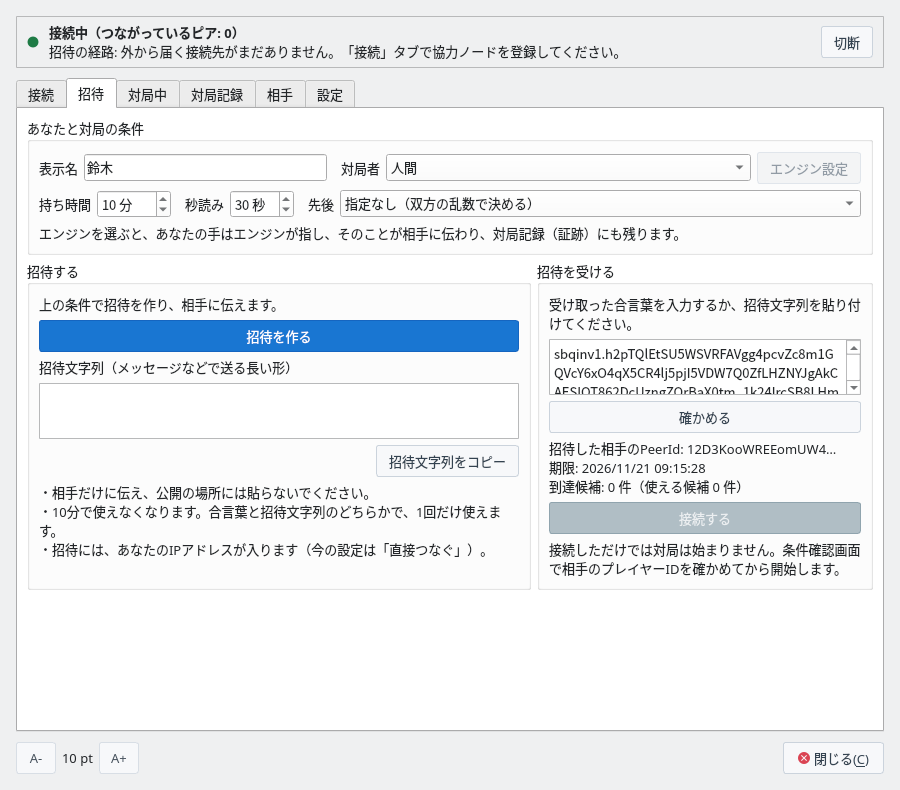
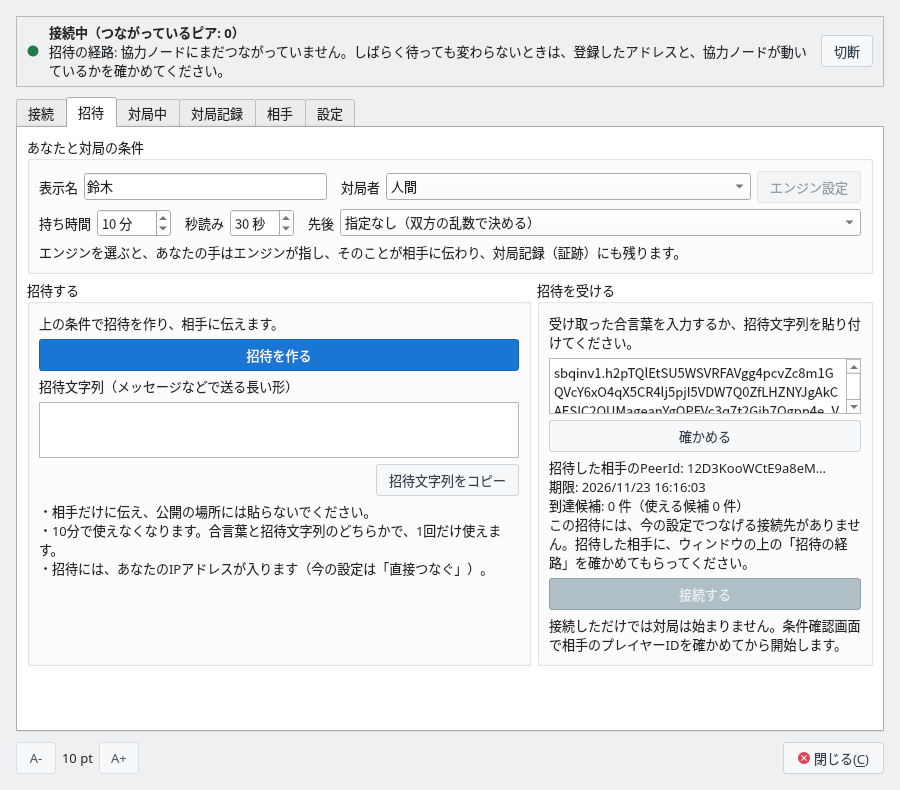
協力ノードを使うP2P対局のガイドを、「招待の経路」の新しい文に合わせる
協力ノードを登録したのにつながっていない・中継の予約がまだ取れていないときの
「招待の経路」の文が変わったので、p2p-relay.html（4言語）を直す。

- 「つながらないとき」の表: 「外から届く接続先がまだありません。…」は協力ノードを
  登録していないときの文にし、「協力ノードにまだつながっていません。…」と、「外から届く
  接続先を、協力ノードで確かめています。…」「協力ノードに中継を予約しています。…」の行を
  足す（--relay と --network を確かめる）。「中継を使えません。…」の説明と、続く行の
  「上の行」の参照も合わせる
- 「LANの中で試す」と、協力ノードを登録していないときの説明: 「インターネット」で
  LANの中のアドレスだけを登録したときの文を新しい文にする
- 画像 p2p-internet-lan-address.png（4言語）を撮り直す（上の帯に新しい文が写る）

Changed region(s): [[0.0311, 0.0304, 0.9644, 0.8506], [0.0311, 0.5468, 0.56, 0.7291]]

diff --git a/docs/guide/p2p-relay.html b/docs/guide/p2p-relay.html
@@ -314,7 +314,7 @@ $ journalctl -u sbq-coop-node    # PeerId を確かめる</code></pre></div>
                     <a href="../images/p2p-game/p2p-internet-connected.png"><img src="../images/p2p-game/p2p-internet-connected.png" alt="「インターネット」で接続し、上の帯の招待の経路に、協力ノードの中継を通ると出た「接続」タブ" width="900" height="790" loading="lazy"></a>
                     <p class="screenshot-caption">協力ノードにつながったところ</p>
                 </div>
-                <p class="guide-step-text">協力ノードを登録していない間は、「接続」タブの下に「このままでは、相手は接続できません」と出ます。そのまま接続しても、どこにもつながらず（「つながっているピア: 0」）、「招待の経路」に「外から届く接続先がまだありません。…」と出ます。この状態で招待文字列を作っても接続先が入らず、「この招待文字列には接続先が入っていないので、相手は接続できません。…」と出ます。登録したのがLANの中のアドレスだけのときも、接続すると同じ状態になります（<a href="#lan-test">LANの中で試す</a>）。</p>
+                <p class="guide-step-text">協力ノードを登録していない間は、「接続」タブの下に「このままでは、相手は接続できません」と出ます。そのまま接続しても、どこにもつながらず（「つながっているピア: 0」）、「招待の経路」に「外から届く接続先がまだありません。…」と出ます。この状態で招待文字列を作っても接続先が入らず、「この招待文字列には接続先が入っていないので、相手は接続できません。…」と出ます。登録したのがLANの中のアドレスだけのときも、接続するとどこにもつながらず、招待文字列に接続先が入りません。このとき「招待の経路」には「協力ノードにまだつながっていません。…」と出ます（<a href="#lan-test">LANの中で試す</a>）。</p>
                 <div class="screenshot-item screenshot-item--compact">
                     <a href="../images/p2p-game/p2p-internet-no-node.png"><img src="../images/p2p-game/p2p-internet-no-node.png" alt="「インターネット」を選び、協力ノードを登録していない「接続」タブ。このままでは相手は接続できないことと、直し方が出ている" width="900" height="790" loading="lazy"></a>
                     <p class="screenshot-caption">協力ノードを登録していないとき</p>
@@ -438,7 +438,7 @@ $ journalctl -u sbq-coop-node    # PeerId を確かめる</code></pre></div>
                 </div>
                 <p class="guide-step-text">「インターネット」では、アプリはインターネット上のアドレスにしかつなぎません。協力ノードを自分のPCや同じLANのPCで起動し、LANの中のアドレス（<code>/ip4/192.168.10.16/tcp/4001/p2p/…</code> など）を登録しても、その行は使われず、接続すると、協力ノードを登録していないときと同じになります。</p>
                 <ul class="guide-step-text">
-                    <li><strong>招待する人</strong>：上の帯は「接続中（つながっているピア: 0）」のままで、「招待の経路」に「外から届く接続先がまだありません。…」と出ます。招待文字列を作ると、「この招待文字列には接続先が入っていないので、相手は接続できません。…」と出ます。</li>
+                    <li><strong>招待する人</strong>：上の帯は「接続中（つながっているピア: 0）」のままで、「招待の経路」に「協力ノードにまだつながっていません。…」と出ます。招待文字列を作ると、「この招待文字列には接続先が入っていないので、相手は接続できません。…」と出ます。</li>
                     <li><strong>招待された人</strong>：招待文字列を貼り付けて「確かめる」を押すと「到達候補: 0 件（使える候補 0 件）」と出て、「接続する」を押せません。</li>
                 </ul>
                 <div class="screenshot-item screenshot-item--compact">
@@ -517,9 +517,11 @@ $ journalctl -u sbq-coop-node    # PeerId を確かめる</code></pre></div>
                     </thead>
                     <tbody>
                         <tr><td><strong>「つながっているピア: 0」のまま</strong></td><td>登録した協力ノードのアドレスの誤り、協力ノードが止まっている、サーバーのファイアウォールが閉じている、のどれかです。アドレスは IP アドレスで書きます（ドメイン名は使えません）。「インターネット」では、LANの中のアドレス（<code>192.168.…</code> など）を登録した行は使われません（<a href="#lan-test">LANの中で試す</a>）。</td></tr>
-                        <tr><td><strong>「招待の経路」に「外から届く接続先がまだありません。…」</strong></td><td>協力ノードにまだつながっていないか、中継の予約がまだ取れていません。少し待っても変わらなければ、上の行を確かめます。</td></tr>
-                        <tr><td><strong>招待文字列を確かめると「到達候補: 0 件（使える候補 0 件）」と出て、「接続する」を押せない</strong></td><td>招待文字列に接続先が入っていません。招待した人のアプリが、協力ノードにつながっていないか、中継の予約がまだ取れていないうちに作った招待文字列です。招待した人に、「招待の経路」が上の行の文のままでないかを確かめてもらい、「協力ノードの中継を通ります（…）。」などに変わってから、招待文字列を作り直してもらいます。</td></tr>
-                        <tr><td><strong>「招待の経路」に「中継を使えません。…」</strong></td><td>「協力ノードの中継だけを使う」を選んでいて、中継のできる協力ノードを登録していません。協力ノードを <code>--relay</code> を付けて起動しているかも確かめます。</td></tr>
+                        <tr><td><strong>「招待の経路」に「外から届く接続先がまだありません。…」</strong></td><td>協力ノードを登録していません。「接続」タブの「追加…」で登録します。</td></tr>
+                        <tr><td><strong>「招待の経路」に「協力ノードにまだつながっていません。…」</strong></td><td>登録した協力ノードに、まだつながっていません。少し待っても変わらなければ、上の「つながっているピア: 0」の行を確かめます。</td></tr>
+                        <tr><td><strong>「招待の経路」に「外から届く接続先を、協力ノードで確かめています。…」か「協力ノードに中継を予約しています。…」</strong></td><td>協力ノードにはつながりましたが、中継の予約がまだ取れていません。少し待っても変わらなければ、協力ノードを <code>--relay</code> を付けて起動しているかと、<code>--network</code> がアプリの「相手のいる場所」に合っているか（<a href="#lan-test">LANの中で試す</a>の対応表）を確かめます。</td></tr>
+                        <tr><td><strong>招待文字列を確かめると「到達候補: 0 件（使える候補 0 件）」と出て、「接続する」を押せない</strong></td><td>招待文字列に接続先が入っていません。招待した人のアプリが、協力ノードにつながっていないか、中継の予約がまだ取れていないうちに作った招待文字列です。招待した人に、「招待の経路」が上の3つの行の文のどれかのままでないかを確かめてもらい、「協力ノードの中継を通ります（…）。」などに変わってから、招待文字列を作り直してもらいます。</td></tr>
+                        <tr><td><strong>「招待の経路」に「中継を使えません。…」</strong></td><td>「協力ノードの中継だけを使う」を選んでいて、協力ノードを登録していません。「接続」タブで、中継のできる協力ノードを登録します。</td></tr>
                         <tr><td><strong>「インターネット」で招待を作っても、合言葉が出ない（「この招待には合言葉が付きません…」と出る）</strong></td><td>協力ノードを <code>--meet</code> を付けて起動していないか、協力ノードにまだつながっていません。合言葉が出なくても、招待文字列は使えます。</td></tr>
                         <tr><td><strong>「この合言葉の招待は、協力ノードから受け取ります。…」</strong></td><td>合言葉を入力した人のアプリが、合言葉に対応した協力ノードにつながっていません。招待した人と同じ協力ノードを「接続」タブで登録して、接続し直します。</td></tr>
                         <tr><td><strong>「この合言葉の招待が見つかりません。…」</strong></td><td>合言葉が違うか、期限（10分）が過ぎたか、もう使われています。招待した人に、新しい招待を作ってもらいます。</td></tr>

diff --git a/docs/en/guide/p2p-relay.html b/docs/en/guide/p2p-relay.html
@@ -314,7 +314,7 @@ $ journalctl -u sbq-coop-node    # check the PeerId</code></pre></div>
                     <a href="../../images/en/p2p-game/p2p-internet-connected.png"><img src="../../images/en/p2p-game/p2p-internet-connected.png" alt="Connection tab connected to Internet, with Invitation route in the top bar going through the cooperating node&#x27;s relay" width="900" height="790" loading="lazy"></a>
                     <p class="screenshot-caption">Connected to a cooperating node</p>
                 </div>
-                <p class="guide-step-text">While no cooperating node is registered, the bottom of the Connection tab shows "Your opponent cannot connect with this setting". If you connect anyway, your app connects to no one ("Connected (peers: 0)"), and Invitation route shows "There is no address yet that can be reached from outside. …". An invitation created in this state contains no address, and "This invitation contains no address, so your opponent cannot connect. …" appears. When the only addresses you registered are LAN addresses, connecting leads to the same state (<a href="#lan-test">Trying It on a LAN</a>).</p>
+                <p class="guide-step-text">While no cooperating node is registered, the bottom of the Connection tab shows "Your opponent cannot connect with this setting". If you connect anyway, your app connects to no one ("Connected (peers: 0)"), and Invitation route shows "There is no address yet that can be reached from outside. …". An invitation created in this state contains no address, and "This invitation contains no address, so your opponent cannot connect. …" appears. When the only addresses you registered are LAN addresses, your app also connects to no one, and the invitation contains no address. Invitation route then shows "Not connected to a cooperating node yet. …" (<a href="#lan-test">Trying It on a LAN</a>).</p>
                 <div class="screenshot-item screenshot-item--compact">
                     <a href="../../images/en/p2p-game/p2p-internet-no-node.png"><img src="../../images/en/p2p-game/p2p-internet-no-node.png" alt="Connection tab with Internet selected and no cooperating node registered, saying that your opponent cannot connect with this setting and how to fix it" width="900" height="790" loading="lazy"></a>
                     <p class="screenshot-caption">With no cooperating node registered</p>
@@ -438,7 +438,7 @@ $ journalctl -u sbq-coop-node    # check the PeerId</code></pre></div>
                 </div>
                 <p class="guide-step-text">On the Internet network, the app connects only to addresses on the Internet. If you run a cooperating node on your own PC or on another PC on the same LAN and register its LAN address (such as <code>/ip4/192.168.10.16/tcp/4001/p2p/…</code>), that line is not used, and once you connect, the result is the same as having no cooperating node registered.</p>
                 <ul class="guide-step-text">
-                    <li><strong>The inviter</strong>: The top bar stays at "Connected (peers: 0)", and Invitation route shows "There is no address yet that can be reached from outside. …". Creating an invitation shows "This invitation contains no address, so your opponent cannot connect. …".</li>
+                    <li><strong>The inviter</strong>: The top bar stays at "Connected (peers: 0)", and Invitation route shows "Not connected to a cooperating node yet. …". Creating an invitation shows "This invitation contains no address, so your opponent cannot connect. …".</li>
                     <li><strong>The invited player</strong>: Pasting the invitation string and clicking Check shows "Addresses: 0 (0 usable)", and Connect cannot be clicked.</li>
                 </ul>
                 <div class="screenshot-item screenshot-item--compact">
@@ -517,9 +517,11 @@ $ journalctl -u sbq-coop-node    # check the PeerId</code></pre></div>
                     </thead>
                     <tbody>
                         <tr><td><strong>The peer count stays at 0 ("Connected (peers: 0)")</strong></td><td>The registered cooperating node address is wrong, the cooperating node is down, or the server's firewall is closed. Write the address with an IP address (domain names cannot be used). On the Internet network, a registered line with a LAN address (such as <code>192.168.…</code>) is not used (<a href="#lan-test">Trying It on a LAN</a>).</td></tr>
-                        <tr><td><strong>Invitation route shows "There is no address yet that can be reached from outside. …"</strong></td><td>Your app has not connected to the cooperating node yet, or has not reserved a relay slot yet. If it does not change after a while, check the row above.</td></tr>
-                        <tr><td><strong>Check shows "Addresses: 0 (0 usable)" for an invitation string, and Connect cannot be clicked</strong></td><td>The invitation contains no address. The inviter created it before their app connected to the cooperating node or reserved a relay slot. Ask the inviter to check that Invitation route no longer shows the message in the row above, and to create a new invitation after it changes to "Through the relay of your cooperating node (…)." or a similar message.</td></tr>
-                        <tr><td><strong>Invitation route shows "No relay is available. …"</strong></td><td>Relay only (via a cooperating node) is selected, and no cooperating node that provides a relay is registered. Also check that the cooperating node was started with <code>--relay</code>.</td></tr>
+                        <tr><td><strong>Invitation route shows "There is no address yet that can be reached from outside. …"</strong></td><td>No cooperating node is registered. Register one with Add… on the Connection tab.</td></tr>
+                        <tr><td><strong>Invitation route shows "Not connected to a cooperating node yet. …"</strong></td><td>Your app has not connected to the registered cooperating node yet. If it does not change after a while, check the row "The peer count stays at 0" above.</td></tr>
+                        <tr><td><strong>Invitation route shows "Checking with your cooperating node for an address that can be reached from outside. …" or "Reserving a relay on your cooperating node. …"</strong></td><td>Your app has connected to the cooperating node but has not reserved a relay slot yet. If it does not change after a while, check that the cooperating node was started with <code>--relay</code>, and that its <code>--network</code> matches Where your opponent is in the app (see the table in <a href="#lan-test">Trying It on a LAN</a>).</td></tr>
+                        <tr><td><strong>Check shows "Addresses: 0 (0 usable)" for an invitation string, and Connect cannot be clicked</strong></td><td>The invitation contains no address. The inviter created it before their app connected to the cooperating node or reserved a relay slot. Ask the inviter to check that Invitation route no longer shows any of the messages in the three rows above, and to create a new invitation after it changes to "Through the relay of your cooperating node (…)." or a similar message.</td></tr>
+                        <tr><td><strong>Invitation route shows "No relay is available. …"</strong></td><td>Relay only (via a cooperating node) is selected, and no cooperating node is registered. Register a cooperating node that provides a relay on the Connection tab.</td></tr>
                         <tr><td><strong>No passcode appears when you create an invitation on Internet ("This invitation has no passcode…" appears)</strong></td><td>The cooperating node was not started with <code>--meet</code>, or you are not connected to it yet. The invitation string works even without a passcode.</td></tr>
                         <tr><td><strong>"The invitation for this passcode is received from a cooperating node. …"</strong></td><td>The app of the player who typed the passcode is not connected to a cooperating node that supports passcodes. Register the same cooperating node as the inviter on the Connection tab and connect again.</td></tr>
                         <tr><td><strong>"No invitation was found for this passcode. …"</strong></td><td>The passcode is wrong, its 10 minutes have passed, or it has already been used. Ask the inviter to create a new invitation.</td></tr>

diff --git a/docs/zh-cn/guide/p2p-relay.html b/docs/zh-cn/guide/p2p-relay.html
@@ -314,7 +314,7 @@ $ journalctl -u sbq-coop-node    # 确认 PeerId</code></pre></div>
                     <a href="../../images/zh-cn/p2p-game/p2p-internet-connected.png"><img src="../../images/zh-cn/p2p-game/p2p-internet-connected.png" alt="以“互联网”连接，上方状态栏的邀请的路径显示通过协作节点中继的“连接”标签页" width="900" height="790" loading="lazy"></a>
                     <p class="screenshot-caption">连接到协作节点后</p>
                 </div>
-                <p class="guide-step-text">没有注册协作节点期间，“连接”标签页的下方会显示“这样对手无法连接”。即使就这样连接，也不会连接到任何地方（“已连接（已连接的节点：0）”），“邀请的路径”中显示“尚无可从外部到达的连接地址。…”。在这种状态下生成的邀请字符串中没有连接地址，会显示“此邀请字符串中没有连接地址，对手无法连接。…”。注册的只有局域网内的地址时，连接后也是同样的状态（<a href="#lan-test">在局域网内试用</a>）。</p>
+                <p class="guide-step-text">没有注册协作节点期间，“连接”标签页的下方会显示“这样对手无法连接”。即使就这样连接，也不会连接到任何地方（“已连接（已连接的节点：0）”），“邀请的路径”中显示“尚无可从外部到达的连接地址。…”。在这种状态下生成的邀请字符串中没有连接地址，会显示“此邀请字符串中没有连接地址，对手无法连接。…”。注册的只有局域网内的地址时，连接后也不会连接到任何地方，邀请字符串中也没有连接地址。此时“邀请的路径”中显示“尚未连接到协作节点。…”（<a href="#lan-test">在局域网内试用</a>）。</p>
                 <div class="screenshot-item screenshot-item--compact">
                     <a href="../../images/zh-cn/p2p-game/p2p-internet-no-node.png"><img src="../../images/zh-cn/p2p-game/p2p-internet-no-node.png" alt="选择“互联网”但没有注册协作节点的“连接”标签页。显示这样对手无法连接，以及解决方法" width="900" height="790" loading="lazy"></a>
                     <p class="screenshot-caption">没有注册协作节点时</p>
@@ -438,7 +438,7 @@ $ journalctl -u sbq-coop-node    # 确认 PeerId</code></pre></div>
                 </div>
                 <p class="guide-step-text">在“互联网”下，应用只连接互联网上的地址。即使在自己的电脑或同一局域网的电脑上启动协作节点，并注册局域网内的地址（如 <code>/ip4/192.168.10.16/tcp/4001/p2p/…</code>），该行也不会被使用，连接后的结果与没有注册协作节点时相同。</p>
                 <ul class="guide-step-text">
-                    <li><strong>邀请方</strong>：上方的状态栏一直是“已连接（已连接的节点：0）”，“邀请的路径”中显示“尚无可从外部到达的连接地址。…”。生成邀请字符串后，会显示“此邀请字符串中没有连接地址，对手无法连接。…”。</li>
+                    <li><strong>邀请方</strong>：上方的状态栏一直是“已连接（已连接的节点：0）”，“邀请的路径”中显示“尚未连接到协作节点。…”。生成邀请字符串后，会显示“此邀请字符串中没有连接地址，对手无法连接。…”。</li>
                     <li><strong>被邀请方</strong>：粘贴邀请字符串并点击“检查”后显示“地址：0 个（可用 0 个）”，无法点击“连接”。</li>
                 </ul>
                 <div class="screenshot-item screenshot-item--compact">
@@ -517,9 +517,11 @@ $ journalctl -u sbq-coop-node    # 确认 PeerId</code></pre></div>
                     </thead>
                     <tbody>
                         <tr><td><strong>一直是“已连接（已连接的节点：0）”</strong></td><td>已注册的协作节点地址有误、协作节点已停止、服务器的防火墙未开放，三者之一。地址请用 IP 地址书写（不能使用域名）。在“互联网”下，注册了局域网内地址（<code>192.168.…</code> 等）的行不会被使用（<a href="#lan-test">在局域网内试用</a>）。</td></tr>
-                        <tr><td><strong>“邀请的路径”中显示“尚无可从外部到达的连接地址。…”</strong></td><td>还没有连接到协作节点，或还没有预约到中继。稍等后仍无变化，请检查上一行。</td></tr>
-                        <tr><td><strong>检查邀请字符串后显示“地址：0 个（可用 0 个）”，无法点击“连接”</strong></td><td>邀请字符串中没有连接地址。这是邀请方的应用还没有连接到协作节点，或还没有预约到中继时生成的邀请字符串。请邀请方确认“邀请的路径”是否仍是上一行的消息，等它变为“通过协作节点的中继（…）。”等之后，重新生成邀请字符串。</td></tr>
-                        <tr><td><strong>“邀请的路径”中显示“无法使用中继。…”</strong></td><td>选择了“仅使用协作节点的中继”，但没有注册可以中继的协作节点。还要确认协作节点是否加上 <code>--relay</code> 启动。</td></tr>
+                        <tr><td><strong>“邀请的路径”中显示“尚无可从外部到达的连接地址。…”</strong></td><td>没有注册协作节点。请在“连接”标签页点击“添加…”注册。</td></tr>
+                        <tr><td><strong>“邀请的路径”中显示“尚未连接到协作节点。…”</strong></td><td>还没有连接到已注册的协作节点。稍等后仍无变化，请检查上面“已连接的节点：0”的那一行。</td></tr>
+                        <tr><td><strong>“邀请的路径”中显示“正在通过协作节点确认可从外部到达的连接地址。…”或“正在向协作节点预约中继。…”</strong></td><td>已经连接到协作节点，但还没有预约到中继。稍等后仍无变化，请确认协作节点是否加上 <code>--relay</code> 启动，以及 <code>--network</code> 是否与应用的“对手所在位置”相符（<a href="#lan-test">在局域网内试用</a>中的对应表）。</td></tr>
+                        <tr><td><strong>检查邀请字符串后显示“地址：0 个（可用 0 个）”，无法点击“连接”</strong></td><td>邀请字符串中没有连接地址。这是邀请方的应用还没有连接到协作节点，或还没有预约到中继时生成的邀请字符串。请邀请方确认“邀请的路径”是否仍是上面三行中的某条消息，等它变为“通过协作节点的中继（…）。”等之后，重新生成邀请字符串。</td></tr>
+                        <tr><td><strong>“邀请的路径”中显示“无法使用中继。…”</strong></td><td>选择了“仅使用协作节点的中继”，但没有注册协作节点。请在“连接”标签页注册可以中继的协作节点。</td></tr>
                         <tr><td><strong>在“互联网”中生成邀请，但没有显示暗号（显示“此邀请没有暗号…”）</strong></td><td>协作节点没有加上 <code>--meet</code> 启动，或者还没有连接到协作节点。即使没有暗号，邀请字符串也可以使用。</td></tr>
                         <tr><td><strong>“此暗号的邀请需要从协作节点取得。…”</strong></td><td>输入暗号的人的应用没有连接到支持暗号的协作节点。请在“连接”标签页中注册与邀请方相同的协作节点，然后重新连接。</td></tr>
                         <tr><td><strong>“找不到此暗号的邀请。…”</strong></td><td>暗号不正确、已超过期限（10 分钟），或已被使用。请让邀请方重新生成邀请。</td></tr>

diff --git a/docs/zh-tw/guide/p2p-relay.html b/docs/zh-tw/guide/p2p-relay.html
@@ -314,7 +314,7 @@ $ journalctl -u sbq-coop-node    # 確認 PeerId</code></pre></div>
                     <a href="../../images/zh-tw/p2p-game/p2p-internet-connected.png"><img src="../../images/zh-tw/p2p-game/p2p-internet-connected.png" alt="以「網際網路」連線，上方橫條的邀請的路徑顯示透過協作節點中繼的「連線」分頁" width="900" height="790" loading="lazy"></a>
                     <p class="screenshot-caption">連線到協作節點後</p>
                 </div>
-                <p class="guide-step-text">沒有註冊協作節點期間，「連線」分頁的下方會顯示「這樣對手無法連線」。即使就這樣連線，也不會連線到任何地方（「已連線（已連線的節點：0）」），「邀請的路徑」中顯示「尚無可從外部到達的連線位址。…」。在這種狀態下產生的邀請字串中沒有連線位址，會顯示「此邀請字串中沒有連線位址，對手無法連線。…」。註冊的只有區域網路內的位址時，連線後也是同樣的狀態（<a href="#lan-test">在區域網路內試用</a>）。</p>
+                <p class="guide-step-text">沒有註冊協作節點期間，「連線」分頁的下方會顯示「這樣對手無法連線」。即使就這樣連線，也不會連線到任何地方（「已連線（已連線的節點：0）」），「邀請的路徑」中顯示「尚無可從外部到達的連線位址。…」。在這種狀態下產生的邀請字串中沒有連線位址，會顯示「此邀請字串中沒有連線位址，對手無法連線。…」。註冊的只有區域網路內的位址時，連線後也不會連線到任何地方，邀請字串中也沒有連線位址。此時「邀請的路徑」中顯示「尚未連線到協作節點。…」（<a href="#lan-test">在區域網路內試用</a>）。</p>
                 <div class="screenshot-item screenshot-item--compact">
                     <a href="../../images/zh-tw/p2p-game/p2p-internet-no-node.png"><img src="../../images/zh-tw/p2p-game/p2p-internet-no-node.png" alt="選擇「網際網路」但沒有註冊協作節點的「連線」分頁。顯示這樣對手無法連線，以及修正方法" width="900" height="790" loading="lazy"></a>
                     <p class="screenshot-caption">沒有註冊協作節點時</p>
@@ -438,7 +438,7 @@ $ journalctl -u sbq-coop-node    # 確認 PeerId</code></pre></div>
                 </div>
                 <p class="guide-step-text">在「網際網路」下，應用程式只連線到網際網路上的位址。即使在自己的電腦或同一區域網路的電腦上啟動協作節點，並註冊區域網路內的位址（如 <code>/ip4/192.168.10.16/tcp/4001/p2p/…</code>），該行也不會被使用，連線後的結果與沒有註冊協作節點時相同。</p>
                 <ul class="guide-step-text">
-                    <li><strong>邀請方</strong>：上方的橫條一直是「已連線（已連線的節點：0）」，「邀請的路徑」中顯示「尚無可從外部到達的連線位址。…」。產生邀請字串後，會顯示「此邀請字串中沒有連線位址，對手無法連線。…」。</li>
+                    <li><strong>邀請方</strong>：上方的橫條一直是「已連線（已連線的節點：0）」，「邀請的路徑」中顯示「尚未連線到協作節點。…」。產生邀請字串後，會顯示「此邀請字串中沒有連線位址，對手無法連線。…」。</li>
                     <li><strong>被邀請方</strong>：貼上邀請字串並按一下「檢查」後顯示「位址：0 個（可用 0 個）」，無法按「連線」。</li>
                 </ul>
                 <div class="screenshot-item screenshot-item--compact">
@@ -517,9 +517,11 @@ $ journalctl -u sbq-coop-node    # 確認 PeerId</code></pre></div>
                     </thead>
                     <tbody>
                         <tr><td><strong>一直是「已連線（已連線的節點：0）」</strong></td><td>已註冊的協作節點位址有誤、協作節點已停止、伺服器的防火牆未開放，三者之一。位址請用 IP 位址書寫（不能使用網域名稱）。在「網際網路」下，註冊了區域網路內位址（<code>192.168.…</code> 等）的行不會被使用（<a href="#lan-test">在區域網路內試用</a>）。</td></tr>
-                        <tr><td><strong>「邀請的路徑」中顯示「尚無可從外部到達的連線位址。…」</strong></td><td>還沒有連線到協作節點，或還沒有預約到中繼。稍等後仍無變化，請檢查上一列。</td></tr>
-                        <tr><td><strong>檢查邀請字串後顯示「位址：0 個（可用 0 個）」，無法按「連線」</strong></td><td>邀請字串中沒有連線位址。這是邀請方的應用程式還沒有連線到協作節點，或還沒有預約到中繼時產生的邀請字串。請邀請方確認「邀請的路徑」是否仍是上一列的訊息，等它變為「透過協作節點的中繼（…）。」等之後，重新產生邀請字串。</td></tr>
-                        <tr><td><strong>「邀請的路徑」中顯示「無法使用中繼。…」</strong></td><td>選擇了「僅使用協作節點的中繼」，但沒有註冊可以中繼的協作節點。還要確認協作節點是否加上 <code>--relay</code> 啟動。</td></tr>
+                        <tr><td><strong>「邀請的路徑」中顯示「尚無可從外部到達的連線位址。…」</strong></td><td>沒有註冊協作節點。請在「連線」分頁按一下「新增…」註冊。</td></tr>
+                        <tr><td><strong>「邀請的路徑」中顯示「尚未連線到協作節點。…」</strong></td><td>還沒有連線到已註冊的協作節點。稍等後仍無變化，請檢查上面「已連線的節點：0」的那一列。</td></tr>
+                        <tr><td><strong>「邀請的路徑」中顯示「正在透過協作節點確認可從外部到達的連線位址。…」或「正在向協作節點預約中繼。…」</strong></td><td>已經連線到協作節點，但還沒有預約到中繼。稍等後仍無變化，請確認協作節點是否加上 <code>--relay</code> 啟動，以及 <code>--network</code> 是否與應用程式的「對手所在位置」相符（<a href="#lan-test">在區域網路內試用</a>中的對應表）。</td></tr>
+                        <tr><td><strong>檢查邀請字串後顯示「位址：0 個（可用 0 個）」，無法按「連線」</strong></td><td>邀請字串中沒有連線位址。這是邀請方的應用程式還沒有連線到協作節點，或還沒有預約到中繼時產生的邀請字串。請邀請方確認「邀請的路徑」是否仍是上面三列中的某則訊息，等它變為「透過協作節點的中繼（…）。」等之後，重新產生邀請字串。</td></tr>
+                        <tr><td><strong>「邀請的路徑」中顯示「無法使用中繼。…」</strong></td><td>選擇了「僅使用協作節點的中繼」，但沒有註冊協作節點。請在「連線」分頁註冊可以中繼的協作節點。</td></tr>
                         <tr><td><strong>在「網際網路」中產生邀請，但沒有顯示暗號（顯示「此邀請沒有暗號…」）</strong></td><td>協作節點沒有加上 <code>--meet</code> 啟動，或者還沒有連線到協作節點。即使沒有暗號，邀請字串也可以使用。</td></tr>
                         <tr><td><strong>「此暗號的邀請需要從協作節點取得。…」</strong></td><td>輸入暗號的人的應用程式沒有連線到支援暗號的協作節點。請在「連線」分頁註冊與邀請方相同的協作節點，然後重新連線。</td></tr>
                         <tr><td><strong>「找不到此暗號的邀請。…」</strong></td><td>暗號不正確、已超過期限（10 分鐘），或已被使用。請讓邀請方重新產生邀請。</td></tr>
